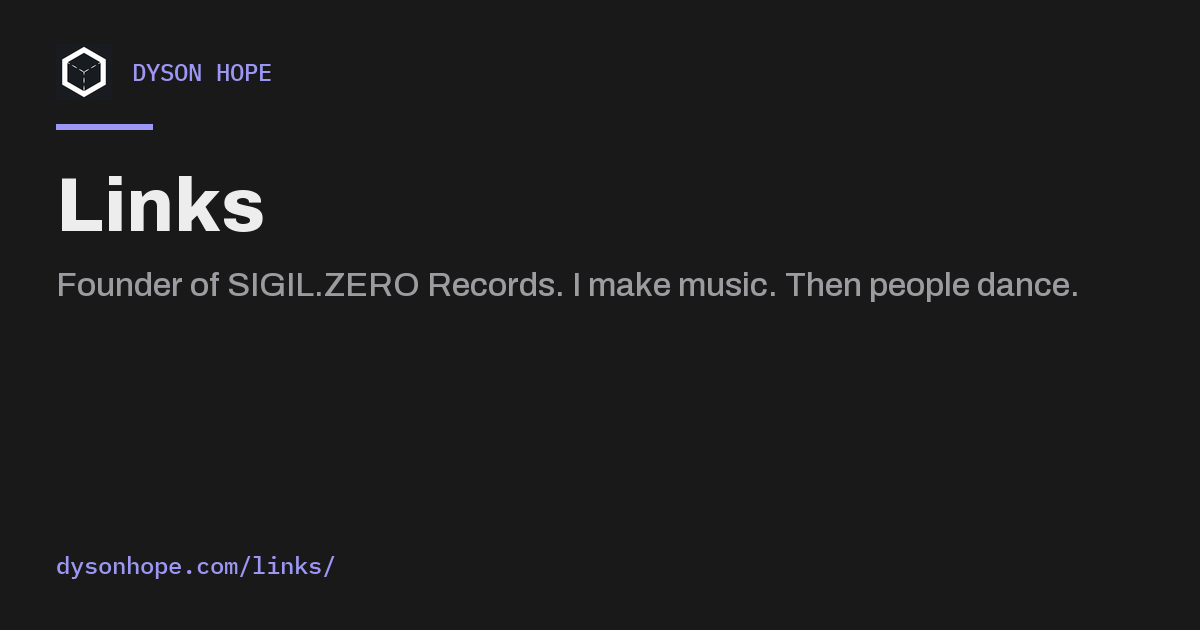
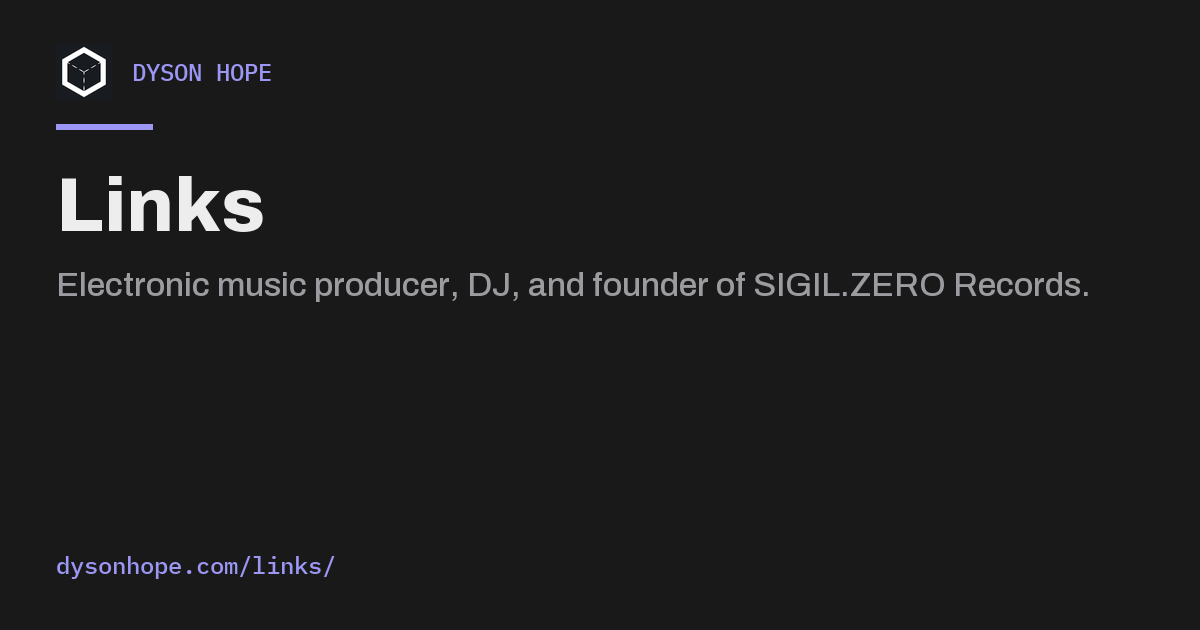
fix(seo): pin card layout engine, fit long footer labels, match links card copy, test post cards byte for byte

Changed region(s): [[0.0617, 0.4222, 0.8942, 0.4825]]

diff --git a/tools/blog/cards.py b/tools/blog/cards.py
@@ -27,7 +27,7 @@ ACCENT = (156, 151, 244)
 # Cards for pages that are not generated. The home page keeps the static photo card.
 # name -> (title, description, url label). Copy mirrors each page's og:title/og:description.
 SITE_CARDS = {
-    "links": ("Links", "Founder of SIGIL.ZERO Records. I make music. Then people dance.",
+    "links": ("Links", "Electronic music producer, DJ, and founder of SIGIL.ZERO Records.",
               "dysonhope.com/links/"),
     "press": ("Press Kit", "Bios, mixes, releases, press photos, logos, and booking contact.",
               "dysonhope.com/press/"),
@@ -41,13 +41,13 @@ SITE_CARDS = {
 
 
 def _archivo(size: int, weight: int) -> ImageFont.FreeTypeFont:
-    font = ImageFont.truetype(str(FONTS / "Archivo.ttf"), size)
+    font = ImageFont.truetype(str(FONTS / "Archivo.ttf"), size, layout_engine=ImageFont.Layout.BASIC)
     font.set_variation_by_axes([weight, 100])  # axes: wght, wdth
     return font
 
 
 def _mono(size: int) -> ImageFont.FreeTypeFont:
-    return ImageFont.truetype(str(FONTS / "PlexMono-Medium.ttf"), size)
+    return ImageFont.truetype(str(FONTS / "PlexMono-Medium.ttf"), size, layout_engine=ImageFont.Layout.BASIC)
 
 
 def _wrap(text: str, font, width: int) -> list:
@@ -102,7 +102,10 @@ def render_card(title: str, description: str, label: str) -> bytes:
         d.text((MARGIN, y), line, font=d_font, fill=TEXT_2)
         y += d_lead
 
-    d.text((MARGIN, H - 56), label, font=_mono(24), fill=ACCENT, anchor="ls")
+    foot = _mono(24)
+    while len(label) > 1 and foot.getlength(label) > inner:
+        label = label[:-2].rstrip("-/ ") + "…"
+    d.text((MARGIN, H - 56), label, font=foot, fill=ACCENT, anchor="ls")
 
     out = io.BytesIO()
     im.save(out, "PNG", optimize=True)

diff --git a/tools/blog/tests/test_cards.py b/tools/blog/tests/test_cards.py
@@ -147,3 +147,27 @@ def test_text_never_runs_into_the_url_line(words):
     im = _img(cards.render_card(title, LONG * 3, "dysonhope.com/blog/x/"))
     gap = im.crop((0, 630 - 100, 1200, 630 - 86))
     assert _colors(gap) == {GROUND}, "title/description reach the footer line"
+
+
+def test_fonts_use_the_basic_layout_engine_so_output_matches_across_machines():
+    assert cards._archivo(40, 800).layout_engine == cards.ImageFont.Layout.BASIC
+    assert cards._mono(24).layout_engine == cards.ImageFont.Layout.BASIC
+
+
+def test_a_very_long_label_stays_inside_the_right_margin():
+    im = _img(cards.render_card("Title", "Text.", "dysonhope.com/blog/" + "a-very-long-slug-" * 6))
+    assert _colors(im.crop((1200 - 48, 0, 1200, 630))) <= {GROUND, (156, 151, 244)}
+    assert _colors(im.crop((1200 - 48, 540, 1200, 600))) == {GROUND}
+
+
+def test_checked_in_post_cards_match_the_renderer(tmp_path):
+    import json
+    cfg = json.loads((REPO / "blog.config.json").read_text())
+    ctx = {k: cfg[k] for k in ("site_title", "blog_url", "author", "cards_url")}
+    manifest = generator.build(REPO / cfg["content"], REPO / cfg["templates"], tmp_path / "blog", ctx,
+                               cards_dir=tmp_path / "cards")
+    assert manifest["published"] > 20
+    on_disk = sorted(p.name for p in (REPO / cfg["cards_out"]).glob("*.png"))
+    assert on_disk == sorted(p.name for p in (tmp_path / "cards").glob("*.png")), "orphan or missing post card"
+    for card in (tmp_path / "cards").glob("*.png"):
+        assert (REPO / cfg["cards_out"] / card.name).read_bytes() == card.read_bytes(), f"{card.name} is stale"

diff --git a/tools/blog/generator.py b/tools/blog/generator.py
@@ -197,7 +197,8 @@ def render_post(post: Post, template: str, ctx: dict) -> str:
         "cover_image": html.escape(post.cover_image, quote=True),
         "url": html.escape(_post_link(post, ctx), quote=True),
         "card_url": html.escape(
-            f"{str(ctx.get('cards_url', '')).rstrip('/')}/{post.slug}.png", quote=True),
+            f"{str(ctx['cards_url']).rstrip('/')}/{post.slug}.png" if ctx.get("cards_url") else "",
+            quote=True),
     })
     return _fill(template, pctx)
 

diff --git a/README.md b/README.md
@@ -185,7 +185,7 @@ python3 -m http.server 8000   # then open http://localhost:8000/blog/
 Every page except the home page has its own 1200x630 share card (`og:image` and `twitter:image`) in `assets/cards/`, and its own `og:url`, title, and description. The home page keeps the static photo card. The `/calendar/` redirect page carries its own card too, since link scrapers read its tags without following the redirect.
 
 - **Post cards** (`assets/cards/blog/<slug>.png`) are written by the blog generator from each post's title and excerpt, including the scheduled drip. `blog.config.json` keys `cards_out` (output folder) and `cards_url` (public base URL) control this.
-- **Page cards** (`links`, `press`, `privacy`, `calendar`, `blog`) are defined in `SITE_CARDS` in `tools/blog/cards.py`. After changing one, run `uv run python tools/blog/cards.py` and commit the PNGs.
+- **Page cards** (`links`, `press`, `privacy`, `calendar`, `blog`) are defined in `SITE_CARDS` in `tools/blog/cards.py`. After changing one, run `uv run python tools/blog/cards.py` and commit the PNGs. After changing the card design itself, also regenerate the posts (`uv run python tools/blog/generator.py --config blog.config.json`), which rewrites every post card.
 - **New page:** add its folder, its entry in `SITE_CARDS`, and the Open Graph and Twitter tags pointing at `https://dysonhope.com/assets/cards/<name>.png`. `uv run pytest` fails for any page without a card.
 - Cards are set in Archivo and IBM Plex Mono, vendored in `tools/blog/fonts/` (SIL OFL licences alongside). Output is deterministic.
 - Anchor links such as `/#schedule` cannot have their own card, because scrapers ignore the fragment.
